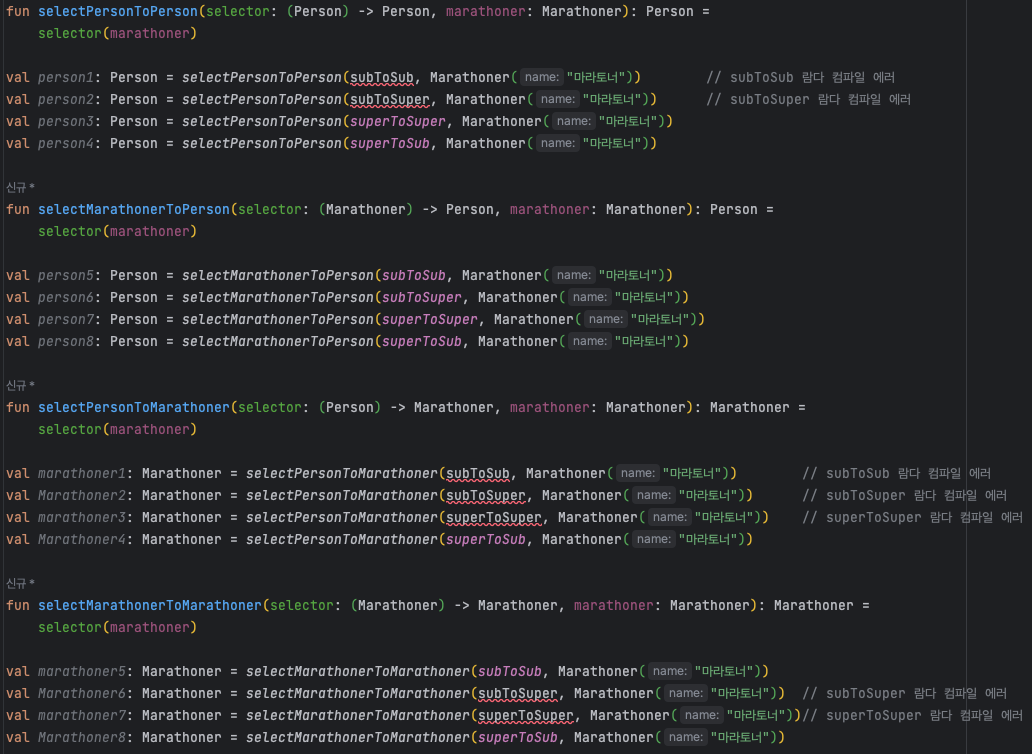
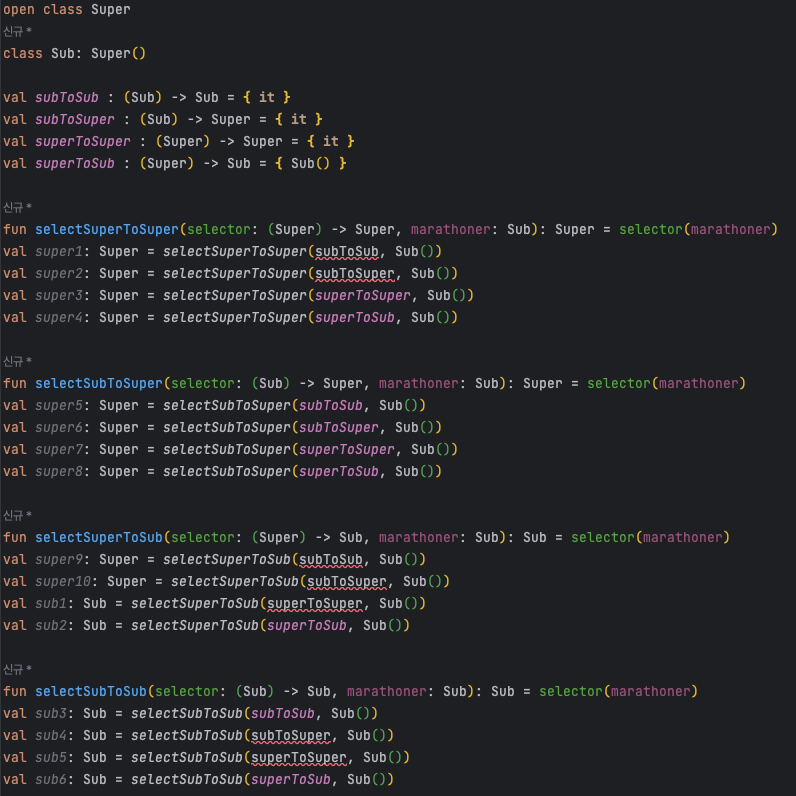
다형성 작성 중

diff --git a/content/blog/2024y/polymorphism/index.md b/content/blog/2024y/polymorphism/index.md
@@ -14,9 +14,93 @@ tags:
 
 대해 알아보자. 자연스럽게 타입 검사기와 더 친해질 수 있을 것이다.  
 (예제 코드는 기본적으로 코틀린을 사용하지만 코틀린에 제공되지 않는 기능들은 첫 줄에 사용한 언어를 표시해놓았다.)  
-  
 
-# 집합론적 타입
+# 다형성
+
+다형성은 프로그램의 **한 개체**가 여러 타입에 속하도록 만드는 것이다.  
+개체는 값, 함수, 클래스, 메서드 등 여러 가지가 될 수 있다.  
+  
+하나의 값이 여러 타입에 속할 수도 있고, 한 함수를 여러 타입의 함수로 사용할 수도 있는 것이다.  
+**다형성은 거의 모든 정적 타입 언어에서만 발견할 수 있는 매우 널리 사용되는 개념이다.**  
+`"어떤 개체에 다형성을 부여하는지"` , `"어떻게 다형성을 부여하는지"` 를 이해하는 것이 중요하다.  
+
+## 서브타입에 의한 다형성
+
+이 주제는 객체를 다룰 때 유용하며 **서브타입** 이라는 개념을 통해 다형성을 실현한다.    
+서브타입은 타입 사이의 관계이며, `"A는 B이다."` 라는 설명이 올바르다면 `A는 B의 서브타입` , `B는 A의 슈퍼타입`이다.  
+반대로 `"B는 A이다."`는 성립하지 않는다.    
+  
+A는 B의 서브타입일 때 B 타입의 부품을 A 타입의 부품으로도 간주할 수 있게 하는 기능이 서브타입에 의한 다형성이다.  
+즉, **슈퍼타입이 요구되는 자리에 서브타입이 위치하더라도 타입 검사기가 문제삼지 않는다는 것이다.**  
+타입 검사기가 객체 타입의 서브타입 관계를 판단할 때 **이름에 의한 서브타입**과 **구조에 의한 서브타입**이 존재한다.  
+  
+### 이름에 의한 서브타입
+
+![](./subtype.png)
+
+클래스의 이름과 클래스 사이의 상속 관계만 고려한다.
+  
+```kotlin
+open class Person(val name: String)
+class Marathoner(name: String): Person(name)
+```
+```kotlin
+fun run(person: Person) {
+    TODO()
+}
+
+run(Person(...))
+run(Marathoner(...))
+```
+```kotlin
+fun run(marathoner: Marathoner) {
+    TODO()
+}
+
+run(Person(name))       // 컴파일 에러
+run(Marathoner(name))
+```
+  
+### 구조에 의한 서브타입
+
+![](./subtype2.png)
+
+만약 Person과 Marathoner라는 콘크리트 클래스가 서로 관계가 맺어져 있지 않고 다른 라이브러리에 존재한다고 가정하면 함수를 같이 사용할 수 없게된다.  
+이 문제를 **구조를 드러내는 타입**을 사용하여 `"A가 B에 정의된 필드와 메서드를 모두 정의한다면 A는 B의 서브타입이다."` 라는 규칙을 적용하게 하여 해결할 수 있다.  
+  
+```kotlin
+// scala
+class Person(val name: String) {
+  def greeting(word: String): Unit = {
+    println(word)
+  }
+}
+class Marathoner(val name: String, val awards: List[String]) {
+  def greeting(word: String): Unit = {
+    println(word)
+  }
+}
+
+// 필드 구조를 드러내어 다형성을 해결
+def run(person: { val name: String }): Unit = {
+   // person.name
+}
+
+run(new Person(name))
+run(new Marathoner(name, null))
+
+// 메서드 구조를 드러내어 다형성을 해결
+def _greeting(person: { def greeting(word: String): Unit }, word: String): Unit = {
+   person.greeting(word)
+}
+
+_greeting(new Person(name), "hello")
+_greeting(new Marathoner(name, null), "hi")
+```
+
+언어가 구조에 의한 서브타입을 제공하면 추상 메서드를 대체할 수 있기 때문에 추상 메서드의 필요성이 줄어든다.  
+
+### 집합론적 서브타입
 
 > 타입은 프로그램에 존재하는 값들을 그 능력에 따라 분류한 것이다. 여기서 값은 변수에 저장되거나 함수에서 반환될 수 있는 모든 것들을 말한다.
 
@@ -124,118 +208,97 @@ function getName(person: Trainer & Developer): String {
 }
 ```
 
-# 다형성
-
-다형성은 프로그램의 **한 개체**가 여러 타입에 속하도록 만드는 것이다.  
-개체는 값, 함수, 클래스, 메서드 등 여러 가지가 될 수 있다.  
-  
-하나의 값이 여러 타입에 속할 수도 있고, 한 함수를 여러 타입의 함수로 사용할 수도 있는 것이다.  
-**다형성은 거의 모든 정적 타입 언어에서만 발견할 수 있는 매우 널리 사용되는 개념이다.**  
-`"어떤 개체에 다형성을 부여하는지"` , `"어떻게 다형성을 부여하는지"` 를 이해하는 것이 중요하다.  
-
-## 서브타입에 의한 다형성
-
-이 주제는 객체를 다룰 때 유용하며 **서브타입** 이라는 개념을 통해 다형성을 실현한다.    
-서브타입은 타입 사이의 관계이며, `"A는 B이다."` 라는 설명이 올바르다면 `A는 B의 서브타입` , `B는 A의 슈퍼타입`이다.  
-반대로 `"B는 A이다."`는 성립하지 않는다.    
-  
-A는 B의 서브타입일 때 B 타입의 부품을 A 타입의 부품으로도 간주할 수 있게 하는 기능이 서브타입에 의한 다형성이다.  
-즉, **슈퍼타입이 요구되는 자리에 서브타입이 위치하더라도 타입 검사기가 문제삼지 않는다는 것이다.**  
-타입 검사기가 객체 타입의 서브타입 관계를 판단할 때 **이름에 의한 서브타입**과 **구조에 의한 서브타입**이 존재한다.  
-  
-### 이름에 의한 서브타입
-
-![](./subtype.png)
-
-클래스의 이름과 클래스 사이의 상속 관계만 고려한다.
-  
-```kotlin
-open class Person(val name: String)
-class Marathoner(name: String): Person(name)
-```
-```kotlin
-fun run(person: Person) {
-    TODO()
-}
-
-run(Person(...))
-run(Marathoner(...))
-```
-```kotlin
-fun run(marathoner: Marathoner) {
-    TODO()
-}
-
-run(Person(name))       // 컴파일 에러
-run(Marathoner(name))
-```
-  
-### 구조에 의한 서브타입
-
-![](./subtype2.png)
-
-만약 Person과 Marathoner라는 콘크리트 클래스가 서로 관계가 맺어져 있지 않고 다른 라이브러리에 존재한다고 가정하면 위의 `run` 함수를 같이 사용할 수 없게된다.  
-이 문제를 **구조를 드러내는 타입**을 사용하여 `"A가 B에 정의된 필드와 메서드를 모두 정의한다면 A는 B의 서브타입이다."` 라는 규칙을 적용하게 하여 해결할 수 있다.  
-  
-```kotlin
-// scala
-class Person(val name: String) {
-  def greeting(word: String): Unit = {
-    println(word)
-  }
-}
-class Marathoner(val name: String, val awards: List[String]) {
-  def greeting(word: String): Unit = {
-    println(word)
-  }
-}
-
-// 필드 구조를 드러내어 다형성을 해결
-def run(person: { val name: String }): Unit = {
-   // person.name
-}
-
-run(new Person(name))
-run(new Marathoner(name, null))
-
-// 메서드 구조를 드러내어 다형성을 해결
-def _greeting(person: { def greeting(word: String): Unit }, word: String): Unit = {
-   person.greeting(word)
-}
-
-_greeting(new Person(name), "hello")
-_greeting(new Marathoner(name, null), "hi")
-```
-
-언어가 구조에 의한 서브타입을 제공하면 추상 메서드를 대체할 수 있기 때문에 추상 메서드의 필요성이 줄어든다.  
-
 ### 함수와 서브타입
 
 언어가 함수를 값으로 사용할 수 있는 일급 함수를 지원하고 객체와 서브타입에 의한 다형성이 존재하면 **함수 타입 사이의 서브타입 관계를 따질 필요가 생긴다.**  
-위에서 배운 `"A는 B이다."`에 입각하면 `(Marathoner) -> Marathoner`는 `(Marathoner) -> Person`의 서브타입이다.  
-그리고 A가 B의 서브타입일 때 `C → A`가 `C → B`의 서브타입이다.  
   
 ```kotlin
-open class Person(val name: String)
-class Marathoner(name: String): Person(name)
+open class Person
+class Marathoner : Person()
 
-val subToSub : (Marathoner) -> Marathoner = { it }
-val subToSuper : (Marathoner) -> Person = { it }
-val superToSuper : (Person) -> Person = { it }
-val superToSub : (Person) -> Marathoner = { Marathoner(it.name) }
+val selectBySupertype: (Person) -> Marathoner = TODO()
+val selectBySubtype: (Marathoner) -> Marathoner = TODO()
+
+fun select(selector: (Marathoner) -> Person) {
+   val person = selector(Marathoner())
+   TODO()
+}
+
+@Test
+fun call() {
+   select(selectBySupertype)
+   select(selectBySubtype)
+}
 ```
 
+이전에 배운 `"A는 B이다."`에 입각하여 위의 예제를 보면 `(Person) -> Boolean`은 `(Marathoner) -> Boolean`의 서브타입이다.  
+**"사람을 인자로 받을 수 있는 함수는 마라토너를 인자로 받을 수 있는 함수다."** 가 성립되기 때문이다.  
+  
+하지만 그 반대인 `(Marathoner) -> Boolean`은 `(Person) -> Boolean`의 서브타입이 아니다.  
+**"마라토너를 인자로 받을 수 있는 함수는 사람을 인자로 받을 수 있는 함수다."** 가 성립되지 않기 때문이다.  
+  
 ![](./functionSubtype.png)
   
-이때까지 배운 다형성의 서브타입으로 이해하면 `superToSuper` 와 `superToSub`는 타입 검사기를 통과하지 않아야 하지만 통과한다.  
-`(Person) -> Person` 과 `(Person) -> Marathoner`가 `(Marathoner) -> Person`의 서브타입인지를 이해하려면 **"적어도 사람을 인자로 받을 수 있는 함수는 학생을 인자로 받을 수 있는 함수다."**
+| 람다 \ 함수 인자 | selectSuperToSuper | selectSubToSuper | selectSuperToSub | selectSubToSub |
+| :----- | :-----: | :-: | :-: | :-: |
+| `(Sub) -> Sub`       | ❌ | O | ❌ | O |
+| `(Sub) -> Super`     | ❌ | O | ❌ | ❌ |
+| `(Super) -> Super`   | O  | O | ❌ | ❌ |
+| `(Super) -> Sub`     | O  | O | O | O |
 
-***
+즉, A가 B의 서브타입일 떄 `B -> C`가 `A -> C`의 서브타입이며 그 반대는 성립하지 않는다.  
+따라서 **함수 타입은 매개변수 타입의 서브타입 관계를 뒤집는다.**  
+결과 타입의 서브타입 관계가 유지된다는 사실은 나름 직관적인것에 비해, 매개변수 타입의 서브타입 관계가 뒤집히는게 이상할 수 있지만 논리적으로 타당하다.  
+  
+`selectSubToSuper`의 함수는 4가지의 람다를 모두 허용하는 이유가 **"함수 타입은 매개변수 타입의 서브타입 관계를 뒤집고 결과 타입의 서브타입 관계는 유지하기 때문이다."** ⭐  
 
-1. 매개변수에 의한 다형성
-2. 제네릭
-3. 오버로딩에 의한 다형성
-4. 오버라이딩에 의한 다형성
+## 매개변수에 의한 다형성
+
+매개변수에 의한 다형성은 **타입 매개변수를 통해 다형성을 만드는 기능으로, 제네릭스라고도 부른다.**  
+
+```kotlin
+fun <T> choose(v1: T, v2: T): T {
+   println(v1)
+   println(v2)
+   return if(readln() == "Y") v1 else v2
+}
+```
+
+`T`를 매개변수 타입 표시와 결과 타입 표시에 사용했다. 이와 같이 한 개 이상의 타입 매개변수를 가지는 함수를 **제네릭 함수** 라고 부른다.  
+타입 매개변수를 추가할 수 있는 곳은 함수뿐이 아니라 타입에 타입 매개변수를 추가하여 **제네릭 타입** 을 지정할 수 있고,  
+타입 매개변수를 가진 클래스를 정의하여 **제네릭 클래스** 도 만들 수 있다.  
+  
+하지만 제네릭 `T`가 아무 타입이나 될 수 있기 때문에 특정 타입에서 제공하는 기능을 사용할 수 없다.  
+**타입 매개변수로 지정된 타입은 함수 또는 클래스 안에서 특정 능력이 필요한 자리에 사용된다면 제네릭으로 선언할 필요가 없다.**  
+  
+### 무엇이든 타입
+
+```kotlin
+fun <T> first(list: List<T>): T = list.first()
+fun <T> last(list: List<T>): T = list.last()
+
+fun <T> compute(selector: (List<T>) -> T) {
+   selector(listOf(1,2,3))
+   selector(listOf("A","B","C"))
+}
+
+@Test
+fun task() {
+   compute<Int>(::first)
+   compute<String>(::last)
+}
+```
+
+`simulate` 함수 안에서 selector의 타입이 2가지가 동시에 존재하기 때문에 컴파일 에러가 발생한다.  
+타입 검사기가 `simulate`의 `T`가 무엇인지 알 수 없는 이와 같은 상황을 해결할 수 있는 방법은 무엇일까?  
+(simulate에 list를 파라미터로 추가하면 되지만.. 2가지 타입이 동시에 존재하는 상황에 집중해보자)  
+  
+이때 **무엇이든 타입** 을 사용할 수 있다.  
+
+
+1. 제네릭
+2. 오버로딩에 의한 다형성
+3. 오버라이딩에 의한 다형성
 
 
 
